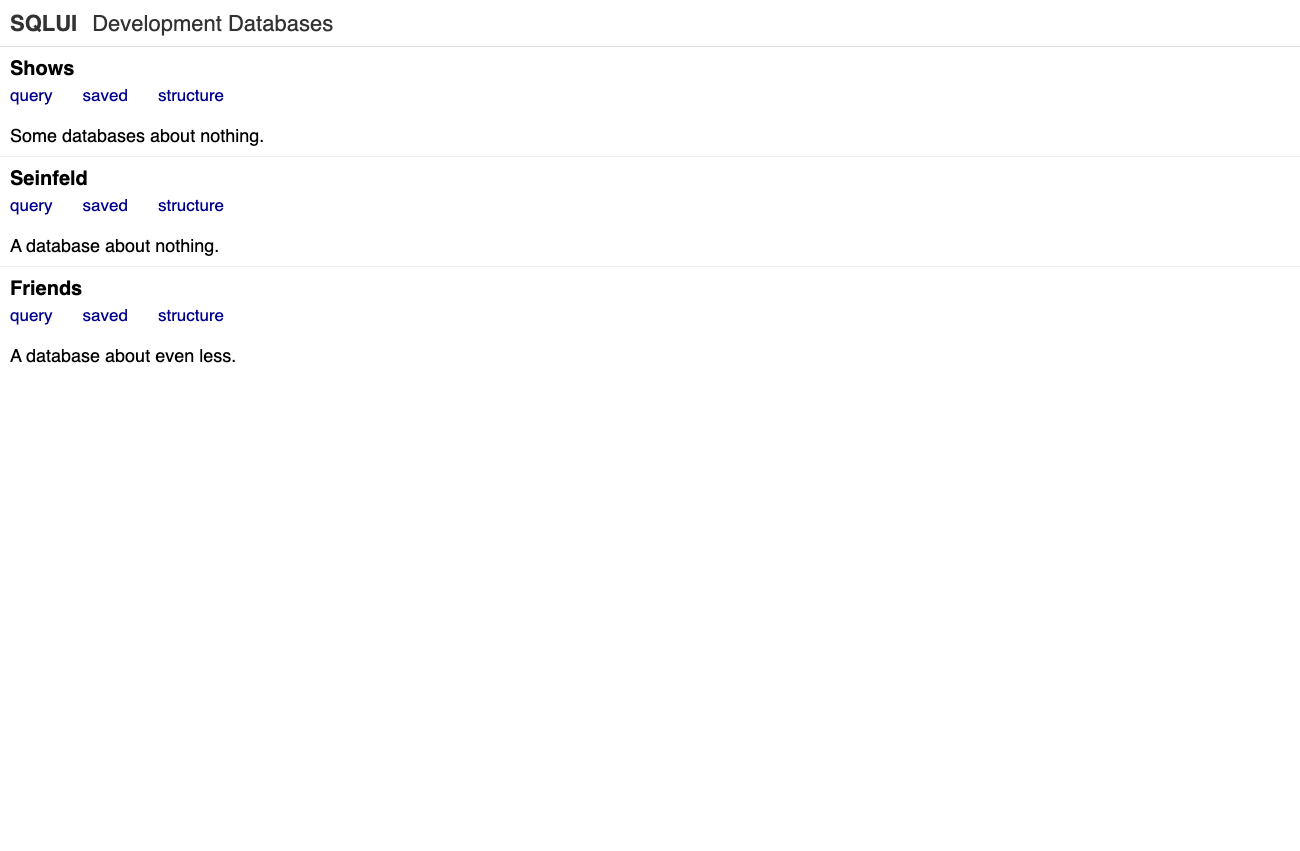
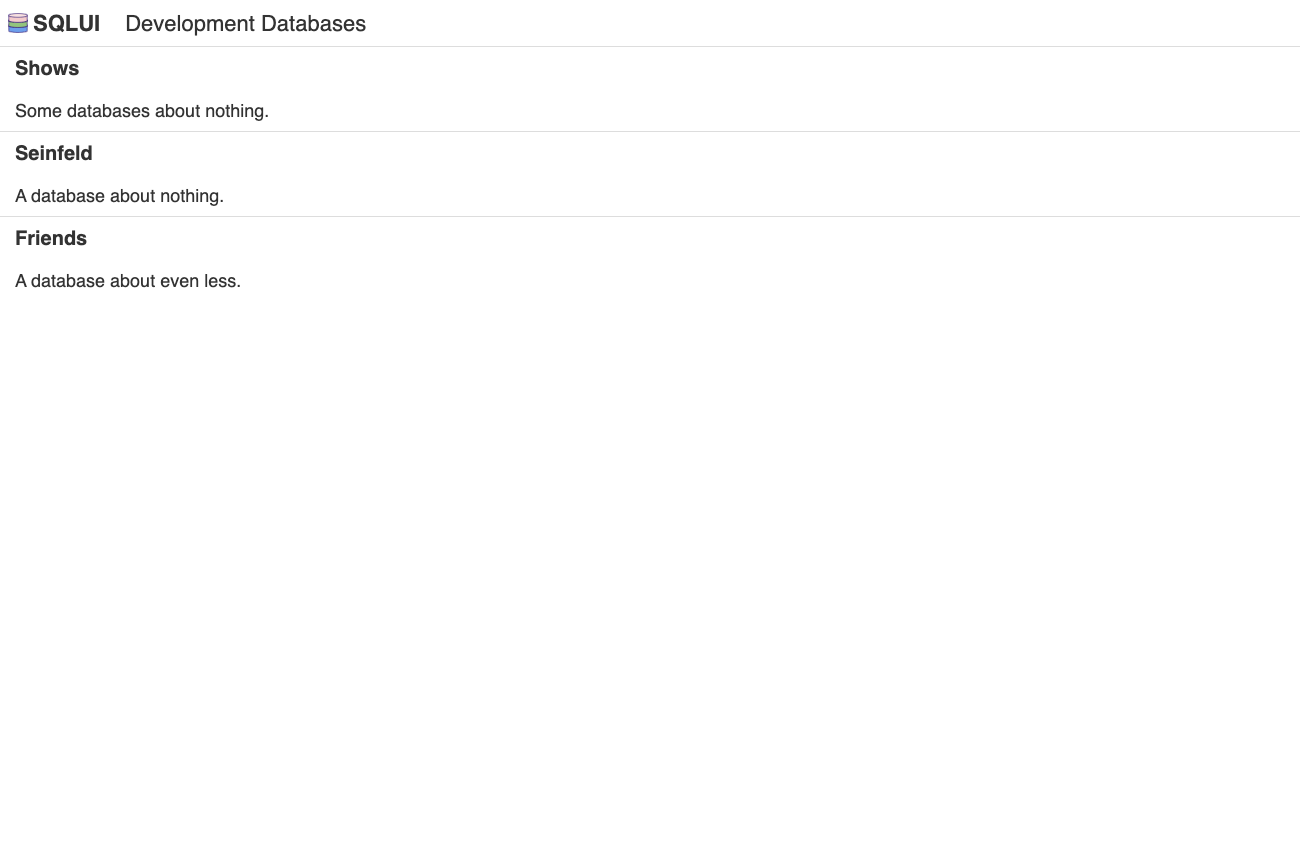
Restyle saved. Add keyboard navigation.

Changed region(s): [[0.0, 0.0, 0.2769, 0.4277]]

diff --git a/client/sqlui.js b/client/sqlui.js
@@ -507,7 +507,6 @@ function selectSavedTab () {
   })
 
   const savedElement = document.getElementById('saved-box')
-  setTimeout(() => { savedElement.focus() }, 0)
 
   const saved = window.metadata.saved
   const numFiles = Object.keys(saved).length
@@ -518,11 +517,23 @@ function selectSavedTab () {
   }
 
   Object.values(saved).forEach(file => {
-    const viewOnGithubLinkElement = document.createElement('a')
-    viewOnGithubLinkElement.classList.add('saved-github-link')
-    viewOnGithubLinkElement.innerText = 'GitHub'
-    viewOnGithubLinkElement.href = file.github_url
-    viewOnGithubLinkElement.target = '_blank'
+    const gitHubElement = document.createElement('a')
+    gitHubElement.classList.add('saved-github-link')
+    gitHubElement.href = file.github_url
+    gitHubElement.target = '_blank'
+    addEventListener(gitHubElement, 'click', (event) => {
+      event.stopPropagation()
+    })
+    addEventListener(gitHubElement, 'keydown', (event) => {
+      if (event.keyCode === 13) {
+        event.stopPropagation()
+      }
+    })
+
+    const gitHubImageElement = document.createElement('img')
+    gitHubImageElement.alt = 'GitHub'
+    gitHubImageElement.src = '/sqlui/github.svg'
+    gitHubElement.appendChild(gitHubImageElement)
 
     const viewUrl = new URL(window.location.origin + window.location.pathname)
     setActionInUrl(viewUrl, 'query')
@@ -532,19 +543,11 @@ function selectSavedTab () {
     nameElement.classList.add('saved-name')
     nameElement.innerText = file.filename
     nameElement.href = viewUrl.pathname + viewUrl.search
-    addEventListener(nameElement, 'click', (event) => {
-      clearResult()
-      route(event.target, event, viewUrl, true)
-    })
-
-    const spacerElement = document.createElement('div')
-    spacerElement.classList.add('saved-name-spacer')
 
     const headerElement = document.createElement('div')
     headerElement.classList.add('saved-file-header')
     headerElement.appendChild(nameElement)
-    headerElement.appendChild(spacerElement)
-    headerElement.appendChild(viewOnGithubLinkElement)
+    headerElement.appendChild(gitHubElement)
 
     const contentLines = file.contents.endsWith('\n') ? file.contents.slice(0, -1).split('\n') : file.contents.split('\n')
     let preview
@@ -555,13 +558,10 @@ function selectSavedTab () {
     }
 
     const previewElement = document.createElement('a')
-    previewElement.innerText = preview
     previewElement.classList.add('saved-preview')
+    previewElement.tabIndex = -1
+    previewElement.innerText = preview
     previewElement.href = viewUrl.pathname + viewUrl.search
-    addEventListener(previewElement, 'click', (event) => {
-      clearResult()
-      route(event.target, event, viewUrl, true)
-    })
 
     if (contentLines.length > 5) {
       const truncatedElement = document.createElement('div')
@@ -574,6 +574,16 @@ function selectSavedTab () {
     itemElement.classList.add('saved-list-item')
     itemElement.appendChild(headerElement)
     itemElement.appendChild(previewElement)
+    addEventListener(itemElement, 'click', (event) => {
+      clearResult()
+      route(event.target, event, viewUrl, true)
+    })
+    addEventListener(itemElement, 'keydown', (event) => {
+      if (event.keyCode === 13) {
+        clearResult()
+        route(event.target, event, viewUrl, true)
+      }
+    })
 
     savedElement.appendChild(itemElement)
   })
@@ -1054,15 +1064,27 @@ function registerTableCellPopup (tableElement) {
   addEventListener(tableElement, 'mousedown', listener)
 }
 function disableDownloadButtons () {
-  document.getElementById('submit-dropdown-button-download-csv').classList.add('disabled')
-  document.getElementById('submit-dropdown-button-copy-csv').classList.add('disabled')
-  document.getElementById('submit-dropdown-button-copy-tsv').classList.add('disabled')
+  const downloadCsvElement = document.getElementById('submit-dropdown-button-download-csv')
+  downloadCsvElement.classList.add('disabled')
+  downloadCsvElement.tabIndex = -1
+  const copyCsvElement = document.getElementById('submit-dropdown-button-copy-csv')
+  copyCsvElement.classList.add('disabled')
+  copyCsvElement.tabIndex = -1
+  const copyTsvElement = document.getElementById('submit-dropdown-button-copy-tsv')
+  copyTsvElement.classList.add('disabled')
+  copyTsvElement.tabIndex = -1
 }
 
 function enableDownloadButtons () {
-  document.getElementById('submit-dropdown-button-download-csv').classList.remove('disabled')
-  document.getElementById('submit-dropdown-button-copy-csv').classList.remove('disabled')
-  document.getElementById('submit-dropdown-button-copy-tsv').classList.remove('disabled')
+  const downloadCsvElement = document.getElementById('submit-dropdown-button-download-csv')
+  downloadCsvElement.classList.remove('disabled')
+  downloadCsvElement.tabIndex = 0
+  const copyCsvElement = document.getElementById('submit-dropdown-button-copy-csv')
+  copyCsvElement.classList.remove('disabled')
+  copyCsvElement.tabIndex = 0
+  const copyTsvElement = document.getElementById('submit-dropdown-button-copy-tsv')
+  copyTsvElement.classList.remove('disabled')
+  copyTsvElement.tabIndex = 0
 }
 
 function updateDownloadButtons (fetch) {

diff --git a/client/resources/saved.css b/client/resources/saved.css
@@ -3,62 +3,95 @@
     outline: none;
 }
 
+#saved-box .saved-list-item {
+    border-bottom: 1px solid #ddd;
+    display: flex;
+    padding: 0 10px 20px 10px;
+    flex-direction: column;
+    cursor: pointer;
+}
+
+#saved-box .saved-list-item:last-child {
+    border-bottom: none;
+}
+
+#saved-box .saved-list-item:last-child {
+    padding-bottom: 10px;
+}
+
+#saved-box .saved-list-item:active {
+    outline: none;
+}
+
 #saved-box .saved-file-header {
     display: flex;
     flex-direction: row;
-    margin: 0 0 10px 0;
+    align-items: center;
+    padding: 5px 0;
 }
 
 #saved-box .saved-name {
     font-size: 20px;
     font-family: monospace;
     flex: 1;
-    padding-right: 10px;
     font-weight: bold;
     text-decoration: none;
     color: #333;
+    margin-right: 5px;
+    height: 35px;
+    display: flex;
+    align-items: center;
+    padding-left: 5px;
+    margin-right: 5px;
 }
 
-#saved-box .saved-name-spacer {
-    flex: 1;
+#saved-box .saved-name:active {
+    outline: none;
+}
+
+#saved-box .saved-name:focus-visible, #saved-box .saved-github-link:focus-visible {
+    outline: 2px solid #333;
+    outline-offset: -2px;
 }
 
 #saved-box .saved-github-link {
     color: darkblue;
     font-size: 17px;
     text-decoration: none;
-    margin: 0;
     display: flex;
     justify-content: center;
     flex-direction: column;
+    height: 35px;
+    width: 35px;
+    align-items: center;
+}
+
+#saved-box .saved-github-link img {
+    height: 25px;
+    width: 25px;
+}
+
+#saved-box .saved-github-link:active {
+    outline: none;
 }
 
 #saved-box .saved-preview {
     display: block;
-    margin: 0 0 10px 0;
     font-size: 18px;
     font-family: monospace;
-    background-color: #efefef;
-    padding: 10px;
-    border: 1px solid #ddd;
+    background-color: #ffffff;
+    border: 1px solid #888;
     min-height: 115px;
     text-decoration: none;
     color: #333;
+    padding: 10px;
+}
+
+#saved-box .saved-preview:active {
+    outline: none;
 }
 
 #saved-box .saved-truncated {
     margin-top: 10px;
     opacity: 30%;
-}
-
-#saved-box .saved-list-item {
-    border-bottom: 1px solid #eeeeee;
-    margin: 0;
-    padding: 10px;
-    display: flex;
-    flex-direction: column;
-}
-
-#saved-box .saved-list-item:last-child {
-    border-bottom: none;
 }

diff --git a/client/resources/sqlui.css b/client/resources/sqlui.css
@@ -41,23 +41,25 @@ body {
 
 #header {
     font-weight: bold;
-    padding-left: 5px;
-}
-
-#header a {
-    text-decoration: none;
-    color: #333
+    margin-left: 3px;
 }
 
 #header-link {
+    text-decoration: none;
+    color: #333;
     display: flex;
     flex-direction: row;
     align-items: center;
+    height: 30px;
+}
+
+#header-link img {
+    height: 20px;
+    margin: 0 5px 0 5px;
 }
 
 #server-name {
     flex: 1;
-    padding-left: 5px;
     font-weight: normal;
     overflow: hidden;
     white-space: nowrap;
@@ -70,15 +72,17 @@ body {
     border-bottom: 1px solid #ddd;
     height: 36px;
     font-family: Helvetica, sans-serif;
-    padding: 5px;
+    padding: 5px 0;
 }
 
 .tab-button, .selected-tab-button {
     border: none;
     text-decoration: none;
     cursor: pointer;
-    width: 150px;
-    margin: 0 2px;
+    width: 130px;
+    margin: 0 5px;
+    height: 30px;
+    padding-left: 20px;
     display: flex;
     justify-content: center;
     background-color: #fff;
@@ -96,6 +100,18 @@ body {
     color: #333;
 }
 
+.tab-button:focus-visible,
+.selected-tab-button:focus-visible,
+#header-link:focus-visible,
+.submit-button:focus-visible,
+#cancel-button:focus-visible,
+.submit-dropdown-button:focus-visible,
+.submit-dropdown-content-button:focus-visible,
+.pagination-button:focus-visible {
+    outline: 2px solid #333;
+    outline-offset: -2px;
+}
+
 .selected-tab-button {
     color: #333;
     font-weight: bold;
@@ -104,7 +120,8 @@ body {
 .keyboard-shortcut-indicator {
     font-size: 14px;
     visibility: hidden;
-    margin: 0 5px;
+    width: 25px;
+    text-align: center;
 }
 
 #query-box {
@@ -143,7 +160,7 @@ body {
 }
 
 #cancel-button-spacer {
-    width: 150px;
+    width: 130px;
 }
 
 #submit-button-wrapper {

diff --git a/spec/browser/databases_spec.rb b/spec/browser/databases_spec.rb
@@ -36,36 +36,9 @@ describe 'databases' do
       elements = driver.find_elements(css: '.database')
       elements if elements&.size == 3 && elements.all?(&:displayed?)
     end
-    query_element = database_elements[0].find_element(css: '.query-link')
-    query_element.click
+    database_elements[0].click
     wait.until do
       element = driver.find_element(css: '#result-box')
-      element if element&.displayed?
-    end
-  end
-
-  it 'links to the saved tab' do
-    database_elements = wait.until do
-      elements = driver.find_elements(css: '.database')
-      elements if elements&.size == 3 && elements.all?(&:displayed?)
-    end
-    saved_element = database_elements[0].find_element(css: '.saved-link')
-    saved_element.click
-    wait.until do
-      element = driver.find_element(css: '#saved-box')
-      element if element&.displayed?
-    end
-  end
-
-  it 'links to the query tab' do
-    database_elements = wait.until do
-      elements = driver.find_elements(css: '.database')
-      elements if elements&.size == 3 && elements.all?(&:displayed?)
-    end
-    structure_element = database_elements[0].find_element(css: '.structure-link')
-    structure_element.click
-    wait.until do
-      element = driver.find_element(css: '#structure-box')
       element if element&.displayed?
     end
   end
